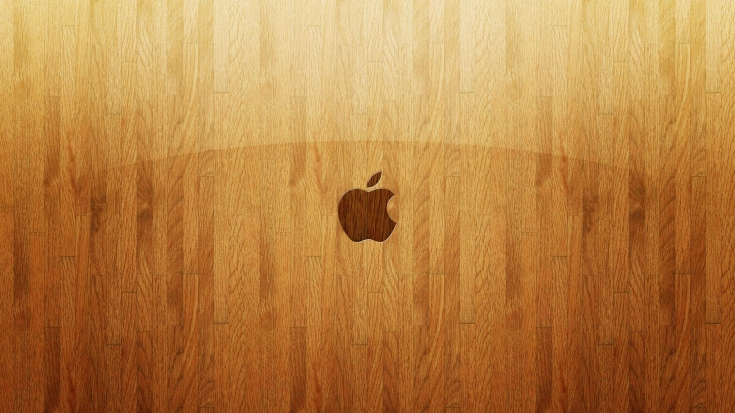
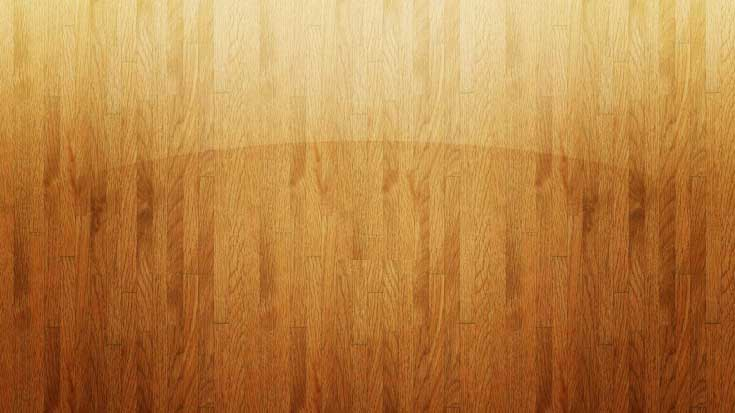
virida4

Changed region(s): [[0.449, 0.4068, 0.5687, 0.6392]]

diff --git a/virida/index.html b/virida/index.html
@@ -11,9 +11,7 @@
     <link href="css/style.css" rel="stylesheet" type="text/css" />
     <link href="css/responsive.css" rel="stylesheet" type="text/css" />
     <link href="css/jplayer.css" rel="stylesheet" type="text/css" />
-
     <link href='http://fonts.googleapis.com/css?family=Open+Sans:300,400,400italic,600,700,700italic,400italic' rel='stylesheet' type='text/css'>
-
     <script type="text/javascript" src="js/jquery.min.js"></script>
 
 </head>
@@ -25,7 +23,9 @@
     </div>
     <!--//Preloader -->
     <div id="logo-textarea">
-        <img src="images/logo-1.png" alt="Вирида">
+
+				<span class="textareabig">Юридическая компания "Вирида"</span><br>
+				<span class="textareamidle">Надежный советник и партнер</span>
     </div>
     <!-- #page -->
     <div id="page">
@@ -70,7 +70,7 @@
                                     <div class="nav-hover"></div>
                                     <div class="cont">
                                         <img src="images/logo.png" alt="">
-                                        <span class="slogan">Вирида</span>
+
                                     </div>
                                 </a>
                             </div>
@@ -85,7 +85,7 @@
                                     </div>
                                 </a>
                             </div>
-                            <div class="brick1 boffset3">
+                            <div class="brick1 boffset1">
                                 <a href="#teachers" class="nav-item">
                                     <div class="nav-hover"></div>
                                     <div class="cont">
@@ -94,69 +94,47 @@
                                     </div>
                                 </a>
                             </div>
+														<div class="brick1 boffset1">
+																<a href="#courses" class="nav-item">
+																		<div class="nav-hover"></div>
+																		<div class="cont">
+																				<img src="images/icon/mus-3.png" alt="">
+																				<span>Направления</span>
+																		</div>
+																</a>
+														</div>
                         </div>
                         <div class="row">
-                            <div class="brick1 thumb">
-                                <div class="nav-item flipX">
-                                    <img class="img1" src="images/top/1.jpg" alt="">
-                                    <img class="img2" src="images/top/6.jpg" alt="">
-                                </div>
-                            </div>
-                            <div class="brick1">
-                                <a href="#courses" class="nav-item">
-                                    <div class="nav-hover"></div>
-                                    <div class="cont">
-                                        <img src="images/icon/mus-3.png" alt="">
-                                        <span>Направления</span>
-                                    </div>
-                                </a>
-                            </div>
-                            <div class="brick1 thumb">
-                                <div class="nav-item flipY">
-                                    <img class="img1" src="images/top/2.jpg" alt="">
-                                    <img class="img2" src="images/top/7.jpg" alt="">
-                                </div>
-                            </div>
-                            <div class="brick1">
-                                <a href="#events" class="nav-item">
-                                    <div class="nav-hover"></div>
-                                    <div class="cont">
-                                        <img src="images/icon/mus-4.png" alt="">
-                                        <span>Новости</span>
-                                    </div>
-                                </a>
-                            </div>
-                            <div class="brick1 thumb">
-                                <div class="nav-item flipX">
-                                    <img class="img1" src="images/top/3.jpg" alt="">
-                                    <img class="img2" src="images/top/8.jpg" alt="">
-                                </div>
-                            </div>
+        										<div class="brick1">
+															<a href="#events" class="nav-item">
+																	<div class="nav-hover"></div>
+																	<div class="cont">
+																			<img src="images/icon/mus-6.png" alt="">
+																			<span>Услуги</span>
+																	</div>
+															</a>
 
-                            <div class="brick1 thumb">
-                                <div class="nav-item flipX">
-                                    <img class="img1" src="images/top/4.jpg" alt="">
-                                    <img class="img2" src="images/top/9.jpg" alt="">
-                                </div>
-                            </div>
+														</div>
+														<div class="brick1 boffset1">
+															<a href="#events" class="nav-item">
+																	<div class="nav-hover"></div>
+																	<div class="cont">
+																			<img src="images/icon/mus-4.png" alt="">
+																			<span>Новости</span>
+																	</div>
+															</a>
+														</div>
+														<div class="brick1 boffset1">
+																<a href="#contact" class="nav-item">
+																		<div class="nav-hover"></div>
+																		<div class="cont">
+																				<img src="images/icon/mus-5.png" alt="">
+																				<span>Контакты</span>
+																		</div>
+																</a>
+														</div>
                         </div>
-                        <div class="row">
-                            <div class="brick1 boffset1 thumb">
-                                <div class="nav-item flipY">
-                                    <img class="img1" src="images/top/5.jpg" alt="">
-                                    <img class="img2" src="images/top/10.jpg" alt="">
-                                </div>
-                            </div>
-                            <div class="brick1">
-                                <a href="#contact" class="nav-item">
-                                    <div class="nav-hover"></div>
-                                    <div class="cont">
-                                        <img src="images/icon/mus-5.png" alt="">
-                                        <span>Контакты</span>
-                                    </div>
-                                </a>
-                            </div>
-                        </div>
+
                     </div>
                     <div class="container visible-phone">
                         <div class="row">
@@ -224,8 +202,6 @@
             <!--//Slider-->
         </section>
         <!-- //header content -->
-
-        <section class="separator-bg set1 cover"></section>
 
         <!-- ABOUT content -->
         <section class="page_section" id="about">
@@ -323,9 +299,43 @@
             </div>
 			<!-- //section content -->
         </section>
+<section class="separator-bg set2 cover"></section>
+				<section class="page_section bg_gray provide-block">
+	            <!-- section header -->
+	            <header>
+	                <div class="container">
+	                    <h2>В помощь юристу</h2>
+	                </div><!-- end .container -->
+	            </header>
+	            <!-- //section header -->
+
+	            <div class="container">
+	                <div class="row">
+	                    <div class="col-md-6">
+	                        <div class="item">
+	                        	<a href="javascript:void(0);">
+
+	                                <div class="title">Задержка в суде</div>
+	                            </a>
+	                            <p>В связи с неимоверной загруженностью судей, многочасовые задержки процессов, к сожалению, не редкость. Арбитражный суд г. Москвы в этом плане очень показательный пример. Именно это и послужило основанием для создания специального сервиса, который позволяет узнать о задержке своего заседания прямо на нашем сайте.</p>
+	                        </div>
+	                    </div>
+	                    <div class="col-md-6">
+	                        <div class="item">
+	                        	<a href="javascript:void(0);">
+
+	                                <div class="title">Ознакомление с материалами дела</div>
+	                            </a>
+	                            <p>Sed ut perspiciatis unde omnis iste natus error sit voluptatem accusantium doloremque laudantium, totam rem aperiam, eaque ipsa quae ab illo inventore veritatis et quasi architecto beatae vitae. </p>
+	                        </div>
+	                    </div>
+	                    <div class="clear"></div>
+
+	                </div>
+	            </div><!-- end .container -->
+	        </section>
 
         <section class="separator-bg set3 cover"></section>
-
 
         <!-- TEACHERS content-->
         <section class="page_section" id="teachers">

diff --git a/virida/css/style.css b/virida/css/style.css
@@ -92,6 +92,8 @@ li {
 .color {color:#6cb598;
 }
 h1,h2,h3,h4,h5.h6 {margin-top:0px;
+  font-weight: 600;
+color: #073a57;
 }
 .text-center {text-align:center;
 }
@@ -260,6 +262,18 @@ img {max-width:100%;
   top: 50px;
   left: 35%;
   z-index: 9999;
+  text-align: center;
+}
+.textareabig {
+  font-size: 35px;
+  font-weight: bold;
+  color: #073a57;
+  line-height: 30px;
+}
+.textareamidle {
+  font-size: 25px;
+  font-weight: 500;
+  color: #073a57;
 }
 #home {
 	color:#fff;
@@ -272,12 +286,14 @@ img {max-width:100%;
 	background: #e0e4e2;
 	background:rgba(224,228,226,0.9);
 	color: #ffffff;
+  border: 5px solid #357FAB;
 }
 #home [class*="brick"]:hover {background: #e0e4e2;
 }
 #home .odd {
 	background: #e0e4e2;
 	background:rgba(224,228,226,0.7);
+  border: 5px solid #2FAF6E;
 }
 #home .logo_container {
 	z-index: 2;
@@ -430,6 +446,9 @@ img {max-width:100%;
 #home .thumb .nav-hover {
   display: none;
 }
+.cube_box {
+    padding-top: 35px;
+}
 .cube_box .container  {
 	padding:0 30px 120px;
 }
@@ -552,13 +571,13 @@ nav.mobile_header {display:none!important;
 #page {overflow:hidden;
 }
 .separator-bg {
-	min-height:400px;
+	min-height:200px;
 }
 .separator-bg.set1 {background-image:url(../images/slide_bg/1.jpg);}
-.separator-bg.set2 {background-image:url(../images/slide_bg/2.jpg);}
-.separator-bg.set3 {background-image:url(../images/slide_bg/3.jpg);}
-.separator-bg.set4 {background-image:url(../images/slide_bg/4.jpg);}
-.separator-bg.set5 {background-image:url(../images/slide_bg/5.jpg);}
+.separator-bg.set2 {background-image:url(../images/slide_bg/1.jpg);}
+.separator-bg.set3 {background-image:url(../images/slide_bg/1.jpg);}
+.separator-bg.set4 {background-image:url(../images/slide_bg/1.jpg);}
+.separator-bg.set5 {background-image:url(../images/slide_bg/1.jpg);}
 
 
 .shortcode_button {
@@ -600,7 +619,7 @@ nav.mobile_header {display:none!important;
 .page_section header {
 	width: 100%;
 	overflow:hidden;
-	padding-bottom:65px;
+	padding-bottom:25px;
 }
 .page_section header div.container {
 	z-index:900;
@@ -615,7 +634,8 @@ nav.mobile_header {display:none!important;
 	padding:0 15px 0;
 	margin:0 0 34px;
 	text-align: center;
-	font-weight:300;
+	font-weight:600;
+  color: #073a57;
 	position:relative;
 }
 .page_section header p {
@@ -628,7 +648,7 @@ nav.mobile_header {display:none!important;
 /************ ABOUT SECTION ***********/
 .service {
 	margin: 0 0 40px;
-    text-align: center;
+  text-align: center;
 }
 .service .icon {
 	margin:0 auto 18px;
